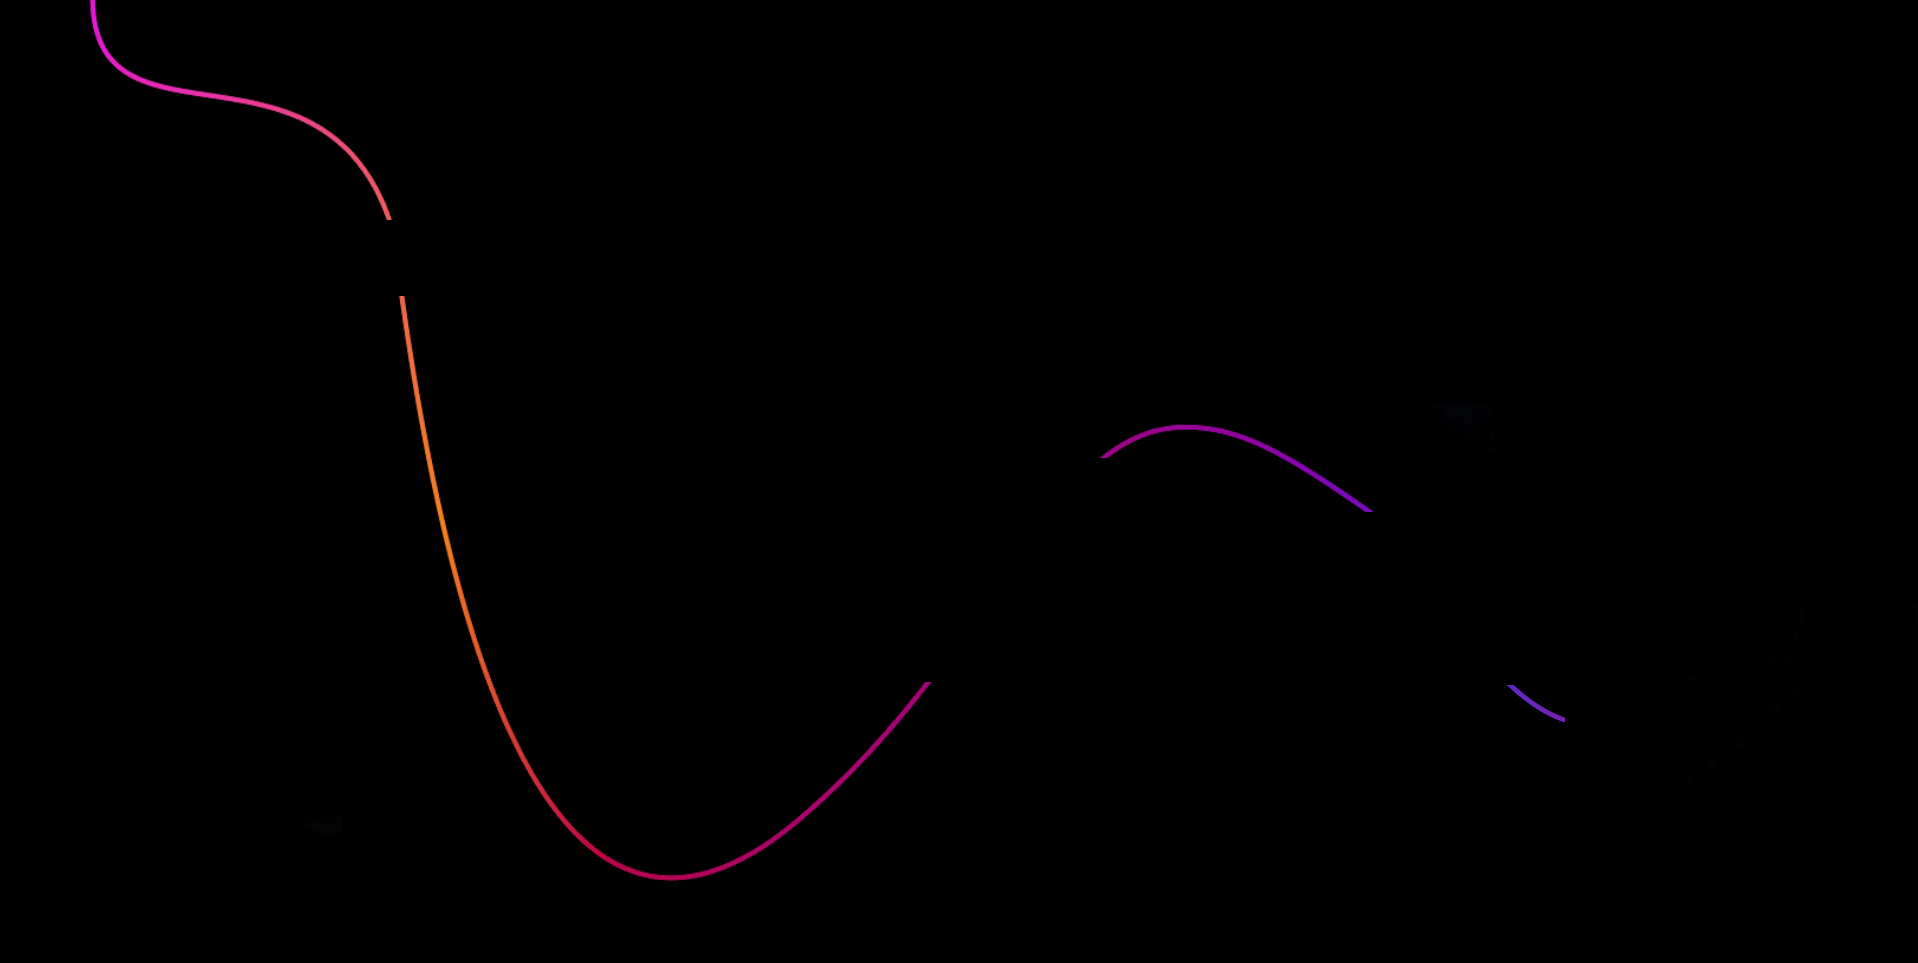
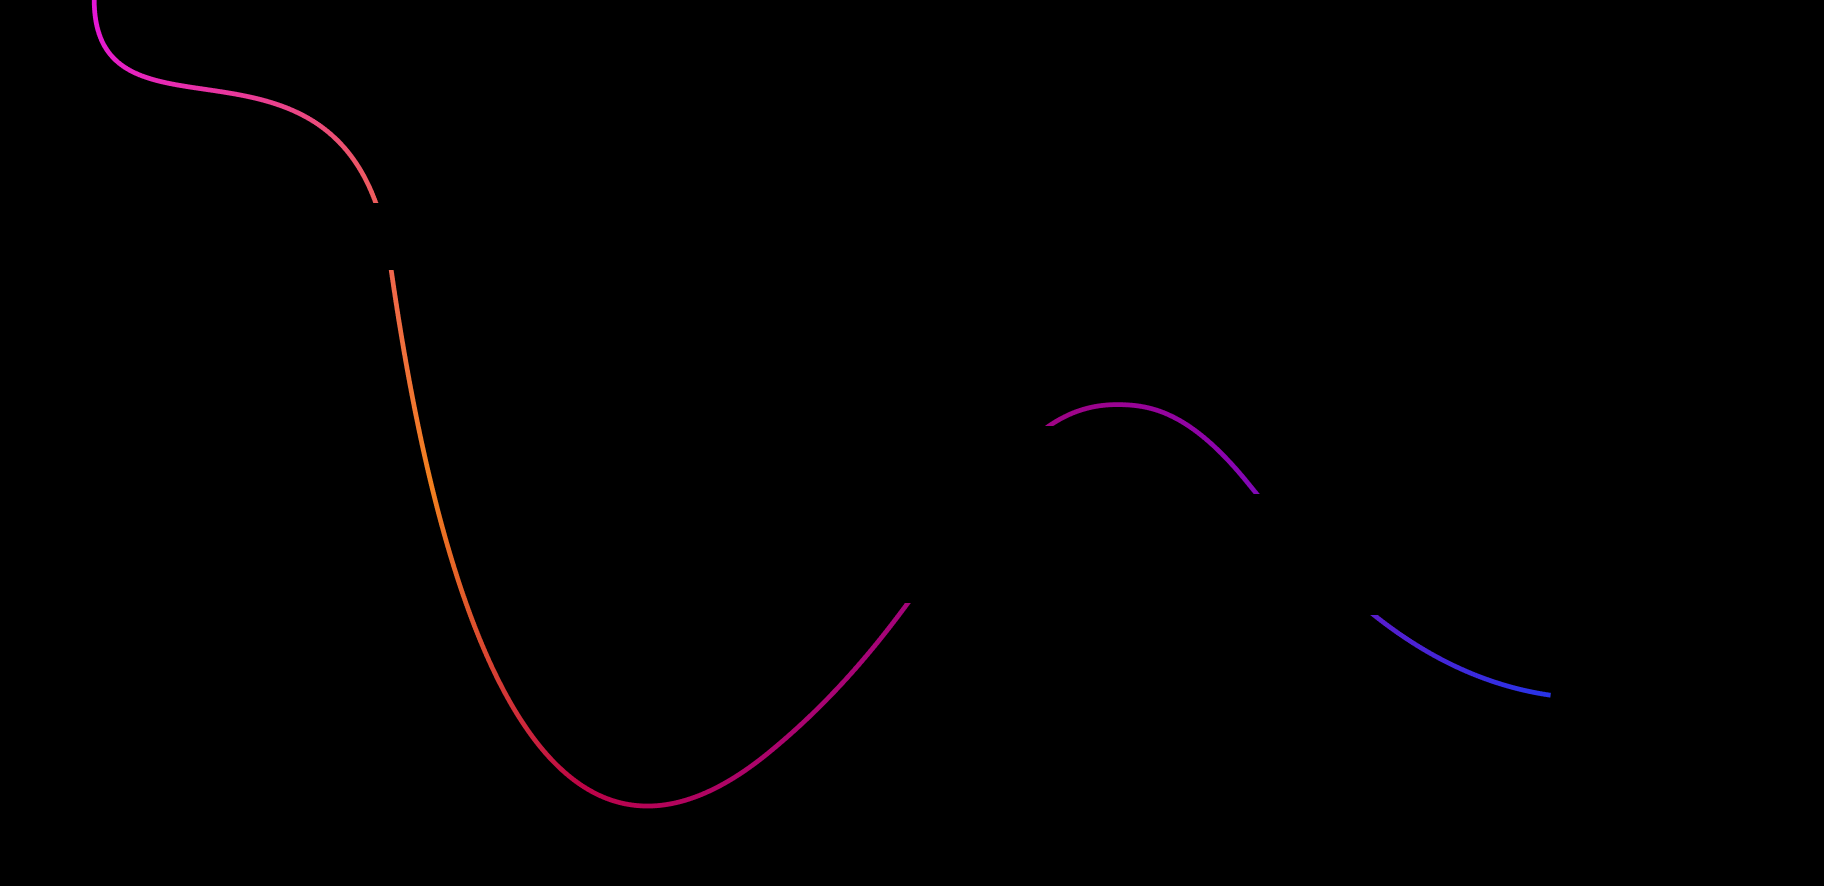
16 January 2022

diff --git a/index.html b/index.html
@@ -112,19 +112,19 @@
                     <p> In high school, I got interested in developing original solutions to any problem that came my way, which is why I decided that I would be an engineer.
                         As a student, I was very hardworking and efficient, and I managed to be the first of my promotion.</p>
                     <p> With a very high grade and a lot of enthusiasm, I was admitted in the bachelor in Aerospace Engineering at the University Carlos III of Madrid in 2016. </p>
-                    <p>(...)</p>
+                    <p>( ... )</p>
                 </div>
                 <div class="story two">
-                    <p>(...)</p>
+                    <p>( ... )</p>
                     <p> Those years were very challenging. My grades were good, and I got a scholarship for the academic performance,
                         but I always had the constant feeling of missing something essential, something related with my true passion: to create. 
                     </p>
                     <p> I completed the last year of my bachelor in the University of Maryland, US, where I learned a lot and got refreshed with new working dynamics. In that same year, I was offered to work at Indra, a top global technology company, as a software developer. There, I was both an aerospace engineer and a frontend developer, and after some months I decided that I wanted to be the second. </p>
-                <p>(...)</p>
+                <p>( ... )</p>
                 </div>
                 <div class="story three">
-                    <p>(...)</p>
-                    <p> Now I am living in Madrid and I have been studying frontend development for 6 months, parallel to my job. I have completed more than 500 hours in online courses, developed several web pages, applications, and designs, including this portfolio!</p>
+                    <p>( ... )</p>
+                    <p> Now I live in Madrid and I am a freelance frontend developer, paralell to my job. I have been studying this field for 6 months, parallel to my job, and I have completed more than 500 hours in online courses, developed several web pages, applications, paid projects and designs, including this portfolio! </p>
                     <p> Regarding my skills, I feel that my strongest quality is the capacity to integrate my programming knowledge and efficiency with my aesthetic sense and visual design. I am very happy and excited to have discovered this world, and very optimistic in regard to the future!</p>
                     <img src="./img/home/DC_V3_white_T.png" alt="">
                 </div>
@@ -135,7 +135,7 @@
                     <div class="iterator-ball"></div>
                 </div>
             </div>
-            <img class="wire" src="/img/aboutme/aboutme_wire_final_T.png" alt="">
+            <img class="wire" src="/img/aboutme/aboutme_wire_final_T.webp" alt="">
         </section>
             <!-- MY WORK -->
         <section class="mywork">

diff --git a/sass/styles.css b/sass/styles.css
@@ -266,7 +266,7 @@ nav.hidden .left {
 .aboutme .aboutitems {
   position: absolute;
   top: 38vh;
-  left: 9vw;
+  left: 10vw;
   width: 38vw;
   height: 40vh;
   color: white;
@@ -304,7 +304,7 @@ nav.hidden .left {
 
 .aboutme .aboutitems .item .right .up {
   font-size: 2vh;
-  font-weight: bold;
+  font-weight: 500;
   text-transform: uppercase;
   background: -webkit-gradient(linear, left top, right top, from(#ec4a21), to(#b24ae2));
   background: linear-gradient(to right, #ec4a21 0%, #b24ae2 100%);
@@ -328,7 +328,7 @@ nav.hidden .left {
 }
 
 .aboutme .aboutitems .item.origin .left {
-  height: 55%;
+  height: 45%;
   margin-left: 8.5vw;
 }
 
@@ -342,7 +342,7 @@ nav.hidden .left {
 }
 
 .aboutme .aboutitems .item.studies .left {
-  height: 35%;
+  height: 30%;
   margin-left: 10vw;
 }
 
@@ -356,7 +356,7 @@ nav.hidden .left {
 }
 
 .aboutme .aboutitems .item.work .left {
-  height: 40%;
+  height: 30%;
   margin-left: 12vw;
 }
 
@@ -366,8 +366,8 @@ nav.hidden .left {
 
 .aboutme .skillsitems {
   position: absolute;
-  top: 43vh;
-  left: 42vw;
+  top: 42vh;
+  left: 43vw;
   width: 30vw;
   height: 50vh;
   color: white;
@@ -376,7 +376,7 @@ nav.hidden .left {
 .aboutme .skillsitems .title {
   position: relative;
   top: 2vh;
-  left: 4.5vw;
+  left: 4vw;
   font-size: 2.7vh;
   height: 7vh;
   -webkit-transition: 1s;
@@ -416,8 +416,8 @@ nav.hidden .left {
           align-items: center;
   font-size: 0.7vw;
   color: white;
-  height: 6vh;
-  width: 6vh;
+  height: 5.5vh;
+  width: 5.5vh;
   -webkit-transform: translateY(20vh);
           transform: translateY(20vh);
   -webkit-transition: 1s;
@@ -429,8 +429,8 @@ nav.hidden .left {
   position: relative;
   top: 0;
   left: 0;
-  height: 4.5vh;
-  width: 4.5vh;
+  height: 3.5vh;
+  width: 3.5vh;
 }
 
 .aboutme .readmystory {
@@ -447,8 +447,8 @@ nav.hidden .left {
           justify-content: center;
   -webkit-transition: 0.8s;
   transition: 0.8s;
-  top: 55.5vh;
-  left: 71.5vw;
+  top: 56vh;
+  left: 69vw;
   font-size: 3vh;
   background: -webkit-gradient(linear, left top, right top, from(#ec4a21), to(#b24ae2));
   background: linear-gradient(to right, #ec4a21 0%, #b24ae2 100%);
@@ -463,8 +463,8 @@ nav.hidden .left {
 
 .aboutme .mystorybutton {
   position: absolute;
-  top: 73vh;
-  left: 83vw;
+  top: 77vh;
+  left: 86vw;
   height: 38px;
   width: 38px;
   border-radius: 50%;

diff --git a/sass/_aboutme.scss b/sass/_aboutme.scss
@@ -26,7 +26,7 @@
 	.aboutitems {
 		position: absolute;
 		top: 38vh;
-		left: 9vw;
+		left: 10vw;
 		width: 38vw;
 		height: 40vh;
 		color: white;
@@ -48,7 +48,7 @@
 				font-weight: 300;
 				.up {
 					font-size: 2vh;
-					font-weight: bold;
+					font-weight: 500;
 					text-transform: uppercase;
 					background: linear-gradient(
 						to right,
@@ -70,7 +70,7 @@
 			&.origin {
 				transform: translateX(-10vw);
 				.left {
-					height: 55%;
+					height: 45%;
 					margin-left: 8.5vw;
 				}
 				.downer {
@@ -80,7 +80,7 @@
 			&.studies {
 				transform: translateX(-30vw);
 				.left {
-					height: 35%;
+					height: 30%;
 					margin-left: 10vw;
 				}
 				.downer {
@@ -90,7 +90,7 @@
 			&.work {
 				transform: translateX(-40vw);
 				.left {
-					height: 40%;
+					height: 30%;
 					margin-left: 12vw;
 				}
 				.downer {
@@ -101,15 +101,15 @@
 	}
 	.skillsitems {
 		position: absolute;
-		top: 43vh;
-		left: 42vw;
+		top: 42vh;
+		left: 43vw;
 		width: 30vw;
 		height: 50vh;
 		color: white;
 		.title {
 			position: relative;
 			top: 2vh;
-			left: 4.5vw;
+			left: 4vw;
 			font-size: 2.7vh;
 			height: 7vh;
 			transition: 1s;
@@ -134,8 +134,8 @@
 				align-items: center;
 				font-size: 0.7vw;
 				color: rgb(255, 255, 255);
-				height: 6vh;
-				width: 6vh;
+				height: 5.5vh;
+				width: 5.5vh;
 				transform: translateY(20vh);
 				transition: 1s;
 				opacity: 0;
@@ -143,8 +143,8 @@
 					position: relative;
 					top: 0;
 					left: 0;
-					height: 4.5vh;
-					width: 4.5vh;
+					height: 3.5vh;
+					width: 3.5vh;
 				}
 			}
 		}
@@ -156,8 +156,8 @@
 		align-items: center;
 		justify-content: center;
 		transition: 0.8s;
-		top: 55.5vh;
-		left: 71.5vw;
+		top: 56vh;
+		left: 69vw;
 		font-size: 3vh;
 		background: linear-gradient(to right, #ec4a21 0%, #b24ae2 100%);
 		background-clip: text;
@@ -169,8 +169,8 @@
 	}
 	.mystorybutton {
 		position: absolute;
-		top: 73vh;
-		left: 83vw;
+		top: 77vh;
+		left: 86vw;
 		height: 38px;
 		width: 38px;
 		border-radius: 50%;
@@ -315,6 +315,7 @@
 			clip: rect(0, 100vw, 100vh, 0vh);
 			transition: 3s;
 			transition-timing-function: ease-in-out;
+			// opacity: 0.4;
 		}
 		.aboutitems {
 			.item {
